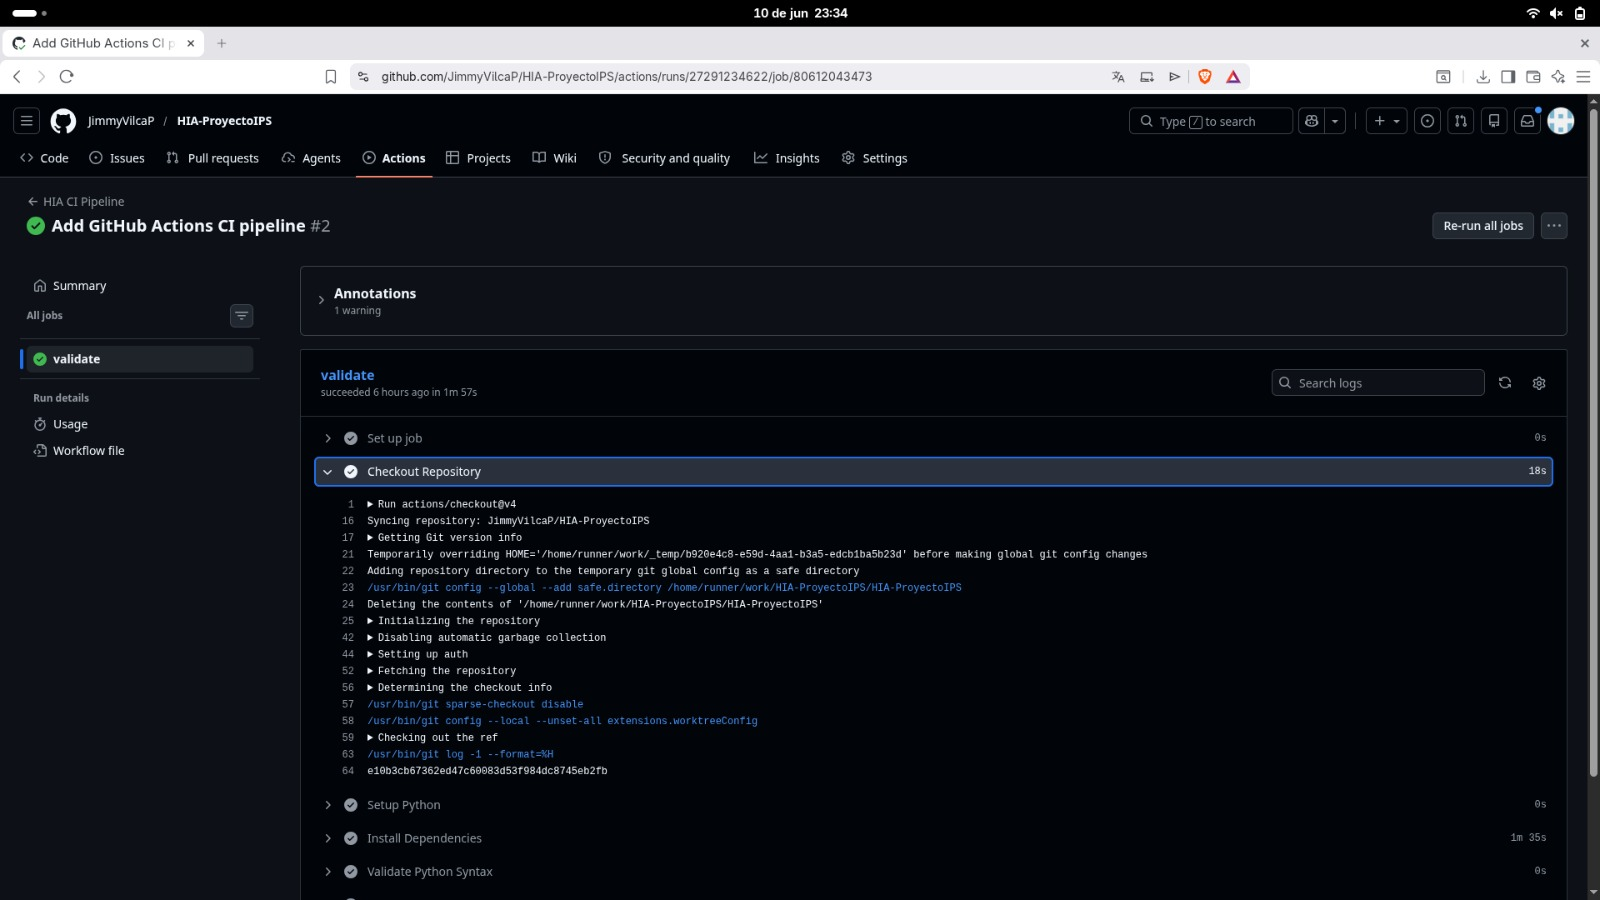
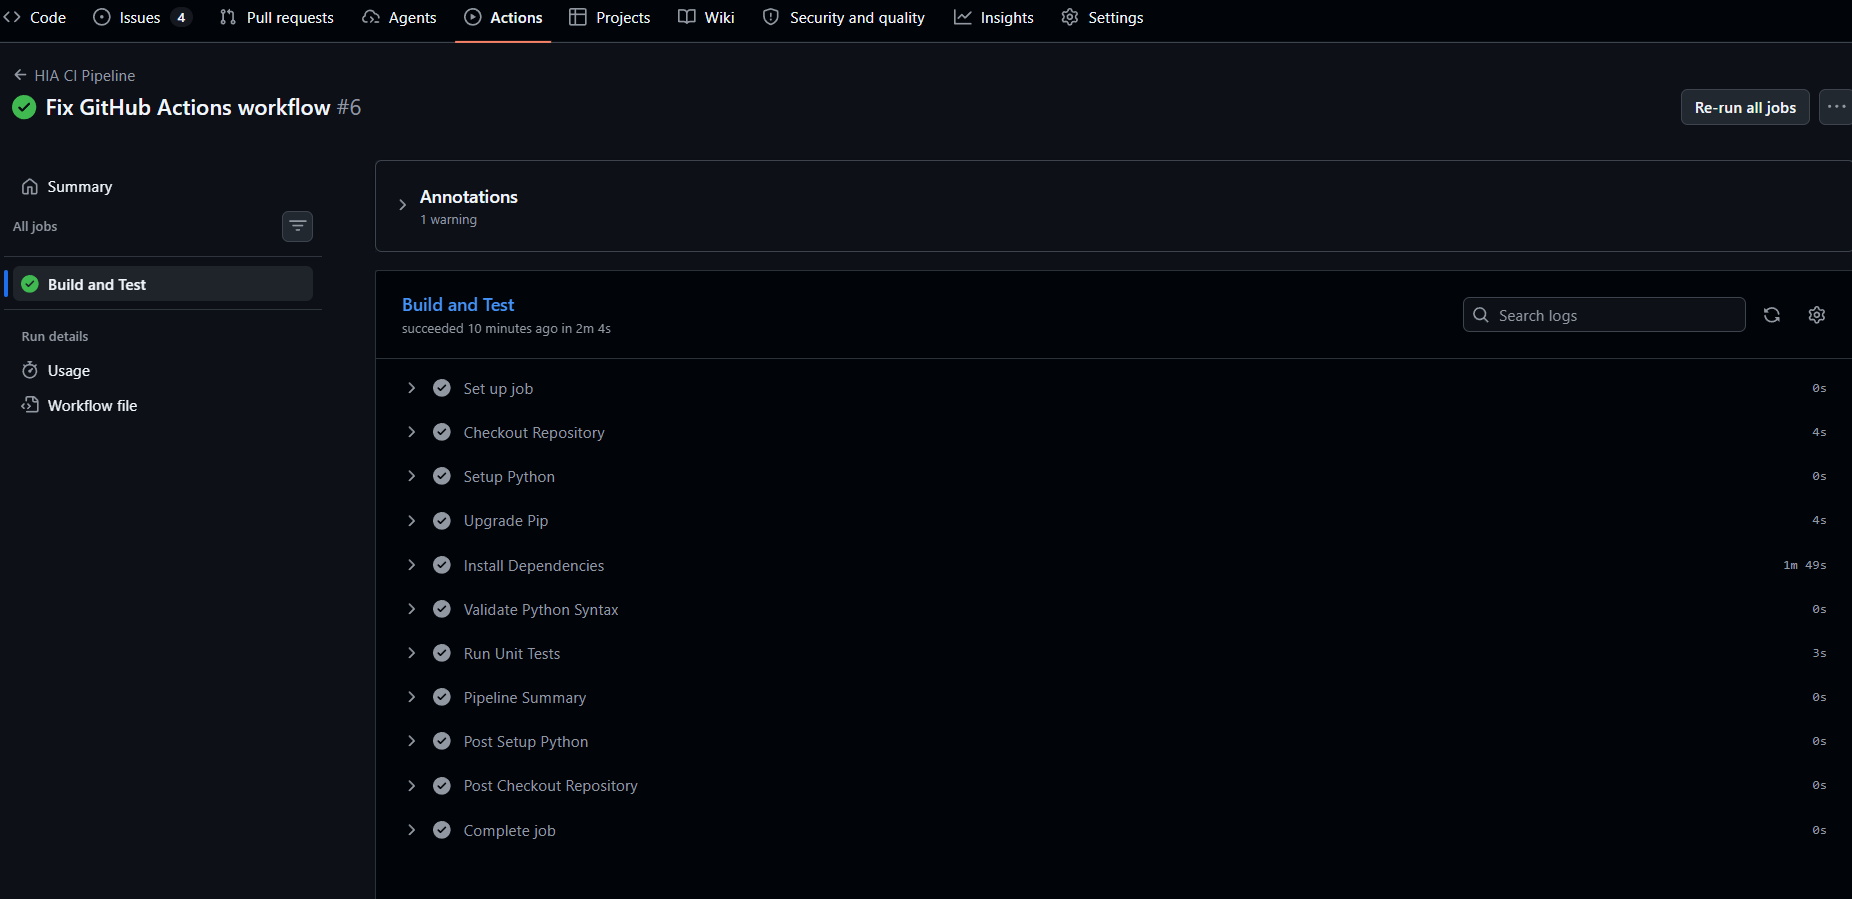
Mejoras finales

diff --git a/docs/css/styles.css b/docs/css/styles.css
@@ -1,5 +1,5 @@
 /* ==========================================================================
-   HEALTH INSIGHTS AGENT (HIA) - STYLESHEET (CORREGIDO HITO 2)
+   HEALTH INSIGHTS AGENT (HIA) - STYLESHEET (CORREGIDO HITO 2 + LIGHTBOX)
    ========================================================================== */
 
 :root {
@@ -223,6 +223,100 @@ th {
     color: var(--text-muted);
     font-family: monospace;
     font-size: 0.9rem;
+}
+
+/* --- NUEVO: ESTILOS PARA EVIDENCIAS Y MODAL (LIGHTBOX) --- */
+.section-header {
+    margin-bottom: 2rem;
+}
+
+.section-subtitle {
+    color: var(--text-muted);
+}
+
+.evidence-img-container {
+    margin: 1rem 0;
+    overflow: hidden; 
+    border-radius: 8px; 
+}
+
+.zoomable-image {
+    width: 100%;
+    height: auto;
+    display: block;
+    cursor: zoom-in; 
+    transition: transform 0.3s ease;
+}
+
+.zoomable-image:hover {
+    transform: scale(1.03); 
+}
+
+.evidence-desc {
+    font-size: 0.9rem;
+    color: var(--text-muted);
+    margin-top: 0.5rem;
+    line-height: 1.4;
+}
+
+/* Estilos del Modal */
+.modal {
+    display: none; 
+    position: fixed;
+    z-index: 2000; /* Mayor que el navbar para cubrirlo */
+    padding-top: 60px;
+    left: 0;
+    top: 0;
+    width: 100%;
+    height: 100%;
+    overflow: auto;
+    background-color: rgba(15, 23, 42, 0.92); /* Usa tu color Slate 900 semitransparente */
+    backdrop-filter: blur(5px); 
+}
+
+.modal-content {
+    margin: auto;
+    display: block;
+    max-width: 90%;
+    max-height: 80vh;
+    border-radius: 8px;
+    object-fit: contain;
+    animation: zoomIn 0.3s ease;
+}
+
+#modalCaption {
+    margin: auto;
+    display: block;
+    width: 80%;
+    max-width: 700px;
+    text-align: center;
+    color: var(--text-muted); /* Color suave para la descripción */
+    padding: 15px 0;
+    font-size: 1.1rem;
+    animation: zoomIn 0.3s ease;
+}
+
+.close-modal {
+    position: absolute;
+    top: 20px;
+    right: 35px;
+    color: var(--text-main);
+    font-size: 40px;
+    font-weight: bold;
+    cursor: pointer;
+    transition: 0.3s;
+}
+
+.close-modal:hover,
+.close-modal:focus {
+    color: var(--accent-color); /* Hover en color Teal */
+    text-decoration: none;
+    cursor: pointer;
+}
+
+@keyframes zoomIn {
+    from {transform: scale(0.9); opacity: 0;}
+    to {transform: scale(1); opacity: 1;}
 }
 
 /* --- FOOTER --- */

diff --git a/docs/evidence.html b/docs/evidence.html
@@ -7,7 +7,6 @@
     <link rel="stylesheet" href="css/styles.css">
 </head>
 <body>
-
     <nav class="navbar">
         <div class="nav-logo">🩺 HIA Project</div>
         <div class="menu-toggle"><span></span><span></span><span></span></div>
@@ -16,90 +15,105 @@
             <li><a href="architecture.html">Arquitectura</a></li>
             <li><a href="scrum-devops.html">Scrum & DevOps</a></li>
             <li><a href="sprints.html">Sprints</a></li>
-            <li><a href="evidence.html">Evidencias</a></li>
+            <li><a href="evidence.html" class="active">Evidencias</a></li>
             <li><a href="team.html">Equipo</a></li>
         </ul>
     </nav>
 
     <main class="container">
-        <header style="margin-bottom: 2rem;">
+        <header class="section-header">
             <h1 class="section-title">Evidencias del Proyecto</h1>
-            <p style="color: var(--text-muted);">Validación real de componentes técnicos, plataformas e infraestructura desplegada.</p>
+            <p class="section-subtitle">Validación real de componentes técnicos, plataformas e infraestructura desplegada.</p>
         </header>
 
         <div class="grid-2">
             <div class="card">
                 <h3>Integración Continua (GitHub Actions)</h3>
-                <div class="placeholder-img" style="margin: 1rem 0;">
-                    <img src="./assets/images/evidencia_github_actions.png" alt="Evidencia de GitHub Actions" style="max-width: 100%; height: auto;">
+                <div class="evidence-img-container">
+                    <img src="./assets/images/evidencia_github_actions.png" alt="Evidencia de GitHub Actions" class="zoomable-image">
                 </div>
+                <p class="evidence-desc">Ejecución exitosa de los flujos de CI/CD en el repositorio.</p>
             </div>
 
             <div class="card">
                 <h3>Persistencia en BD (Supabase)</h3>
-                <div class="placeholder-img" style="margin: 1rem 0;">
-                    <img src="assets/images/evidencia_supabase.png" alt="Evidencia de Supabase" style="width:100%; height:auto; display:block; margin:0 auto;" />
+                <div class="evidence-img-container">
+                    <img src="assets/images/evidencia_supabase.png" alt="Evidencia de Supabase" class="zoomable-image">
                 </div>
+                <p class="evidence-desc">Tablas y registros almacenados correctamente en la base de datos.</p>
             </div>
 
             <div class="card">
                 <h3>Interfaz de Autenticación (Login)</h3>
-                <div class="placeholder-img" style="margin: 1rem 0;">
-                    <img src="assets/images/evidencia_login.png" alt="Evidencia de Login" style="width:100%; height:auto; display:block; margin:0 auto;" />         
+                <div class="evidence-img-container">
+                    <img src="assets/images/evidencia_login.png" alt="Evidencia de Login" class="zoomable-image">
                 </div>
+                <p class="evidence-desc">Pantalla de acceso seguro para los usuarios del sistema.</p>
             </div>
 
             <div class="card">
                 <h3>Procesamiento Clínico (PDF Analysis)</h3>
-                <div class="placeholder-img" style="margin: 1rem 0;">
-                    <img src="assets/images/evidencia_pdf_analysis.png" alt="Evidencia de PDF Analysis" style="width:100%; height:auto; display:block; margin:0 auto;" />
+                <div class="evidence-img-container">
+                    <img src="assets/images/evidencia_pdf_analysis.png" alt="Evidencia de PDF Analysis" class="zoomable-image">
                 </div>
+                <p class="evidence-desc">Extracción y análisis de datos desde documentos médicos.</p>
             </div>
 
             <div class="card">
                 <h3>Interacción y Respuestas (Chat IA)</h3>
-                <div class="placeholder-img" style="margin: 1rem 0;">
-                    <img src="assets/images/evidencia_chat_ia.png" alt="Evidencia de Chat IA" style="width:100%; height:auto; display:block; margin:0 auto;" />
+                <div class="evidence-img-container">
+                    <img src="assets/images/evidencia_chat_ia.png" alt="Evidencia de Chat IA" class="zoomable-image">
                 </div>
+                <p class="evidence-desc">Interfaz conversacional funcionando con los modelos de IA.</p>
             </div>
 
             <div class="card">
                 <h3>Despliegue de Servidores (Streamlit Cloud)</h3>
-                <div class="placeholder-img" style="margin: 1rem 0;">
-                    <img src="assets/images/evidencia_streamlit_cloud.png" alt="Evidencia de Streamlit Cloud" style="width:100%; height:auto; display:block; margin:0 auto;" />
+                <div class="evidence-img-container">
+                    <img src="assets/images/evidencia_streamlit_cloud.png" alt="Evidencia de Streamlit Cloud" class="zoomable-image">
                 </div>
-                <p style="font-size: 0.9rem; color: var(--text-muted); margin-top: 0.5rem;">Aplicación HIA desplegada exitosamente en Streamlit Cloud y accesible mediante una URL pública.</p>
+                <p class="evidence-desc">Aplicación HIA desplegada exitosamente y accesible mediante URL pública.</p>
             </div>
 
             <div class="card">
                 <h3>Planificación Ágil (GitHub Projects)</h3>
-                <div class="placeholder-img" style="margin: 1rem 0;">
-                    <img src="assets/images/evidencia_github_projects.png" alt="Evidencia de GitHub Projects" style="width:100%; height:auto; display:block; margin:0 auto;" />
+                <div class="evidence-img-container">
+                    <img src="assets/images/evidencia_github_projects.png" alt="Evidencia de GitHub Projects" class="zoomable-image">
                 </div>
+                <p class="evidence-desc">Tablero Kanban para la organización general del proyecto.</p>
             </div>
 
             <div class="card">
                 <h3>Trazabilidad de Tareas (GitHub Issues)</h3>
-                <div class="placeholder-img" style="margin: 1rem 0;">
-                    <img src="assets/images/evidencia_github_issues.png" alt="Evidencia de GitHub Issues" style="width:100%; height:auto; display:block; margin:0 auto;" />
+                <div class="evidence-img-container">
+                    <img src="assets/images/evidencia_github_issues.png" alt="Evidencia de GitHub Issues" class="zoomable-image">
                 </div>
+                <p class="evidence-desc">Registro detallado de bugs, features y tareas asignadas.</p>
             </div>
 
             <div class="card">
                 <h3>Gobernanza del Backlog (Jira Board)</h3>
-                <div class="placeholder-img" style="margin: 1rem 0;">
-                    <img src="assets/images/evidencia_jira_board.png" alt="Evidencia de Jira Board" style="width:100%; height:auto; display:block; margin:0 auto;" />
+                <div class="evidence-img-container">
+                    <img src="assets/images/evidencia_jira_board.png" alt="Evidencia de Jira Board" class="zoomable-image">
                 </div>
+                <p class="evidence-desc">Gestión de sprints y control de historias de usuario.</p>
             </div>
 
             <div class="card">
                 <h3>Documentación de Cátedra (GitHub Pages)</h3>
-                <div class="placeholder-img" style="margin: 1rem 0;">
-                    <img src="assets/images/evidencia_github_pages.png" alt="Evidencia de GitHub Pages" style="width:100%; height:auto; display:block; margin:0 auto;" />
+                <div class="evidence-img-container">
+                    <img src="assets/images/evidencia_github_pages.png" alt="Evidencia de GitHub Pages" class="zoomable-image">
                 </div>
+                <p class="evidence-desc">Sitio estático generado para documentar la arquitectura y avances.</p>
             </div>
         </div>
     </main>
+
+    <div id="imageModal" class="modal">
+        <span class="close-modal">&times;</span>
+        <img class="modal-content" id="expandedImg">
+        <div id="modalCaption"></div>
+    </div>
 
     <footer>
         <p>&copy; 2026 HIA Project - Universidad Nacional de San Agustín.</p>

diff --git a/docs/js/main.js b/docs/js/main.js
@@ -25,4 +25,49 @@ document.addEventListener('DOMContentLoaded', () => {
             link.classList.remove('active');
         }
     });
+
+    // --- NUEVO: Lógica del Lightbox para las imágenes ---
+    const modal = document.getElementById("imageModal");
+    const modalImg = document.getElementById("expandedImg");
+    const captionText = document.getElementById("modalCaption");
+    const images = document.querySelectorAll(".zoomable-image");
+    const closeBtn = document.querySelector(".close-modal");
+
+    // Verificar si estamos en la página que tiene el modal
+    if (modal && modalImg) {
+        // Abrir modal al hacer clic en cualquier imagen con la clase
+        images.forEach(img => {
+            img.addEventListener("click", function() {
+                modal.style.display = "block";
+                modalImg.src = this.src;
+                captionText.innerHTML = this.alt;
+                document.body.style.overflow = "hidden"; // Evita que el fondo haga scroll
+            });
+        });
+
+        // Función para cerrar el modal
+        const closeModal = () => {
+            modal.style.display = "none";
+            document.body.style.overflow = "auto"; // Devuelve el scroll al fondo
+        };
+
+        // Cerrar con el botón "X"
+        if(closeBtn) {
+            closeBtn.addEventListener("click", closeModal);
+        }
+
+        // Cerrar al hacer clic en el fondo oscuro (fuera de la imagen)
+        modal.addEventListener("click", (e) => {
+            if (e.target !== modalImg) {
+                closeModal();
+            }
+        });
+
+        // Cerrar con la tecla Escape
+        document.addEventListener("keydown", (e) => {
+            if (e.key === "Escape" && modal.style.display === "block") {
+                closeModal();
+            }
+        });
+    }
 });